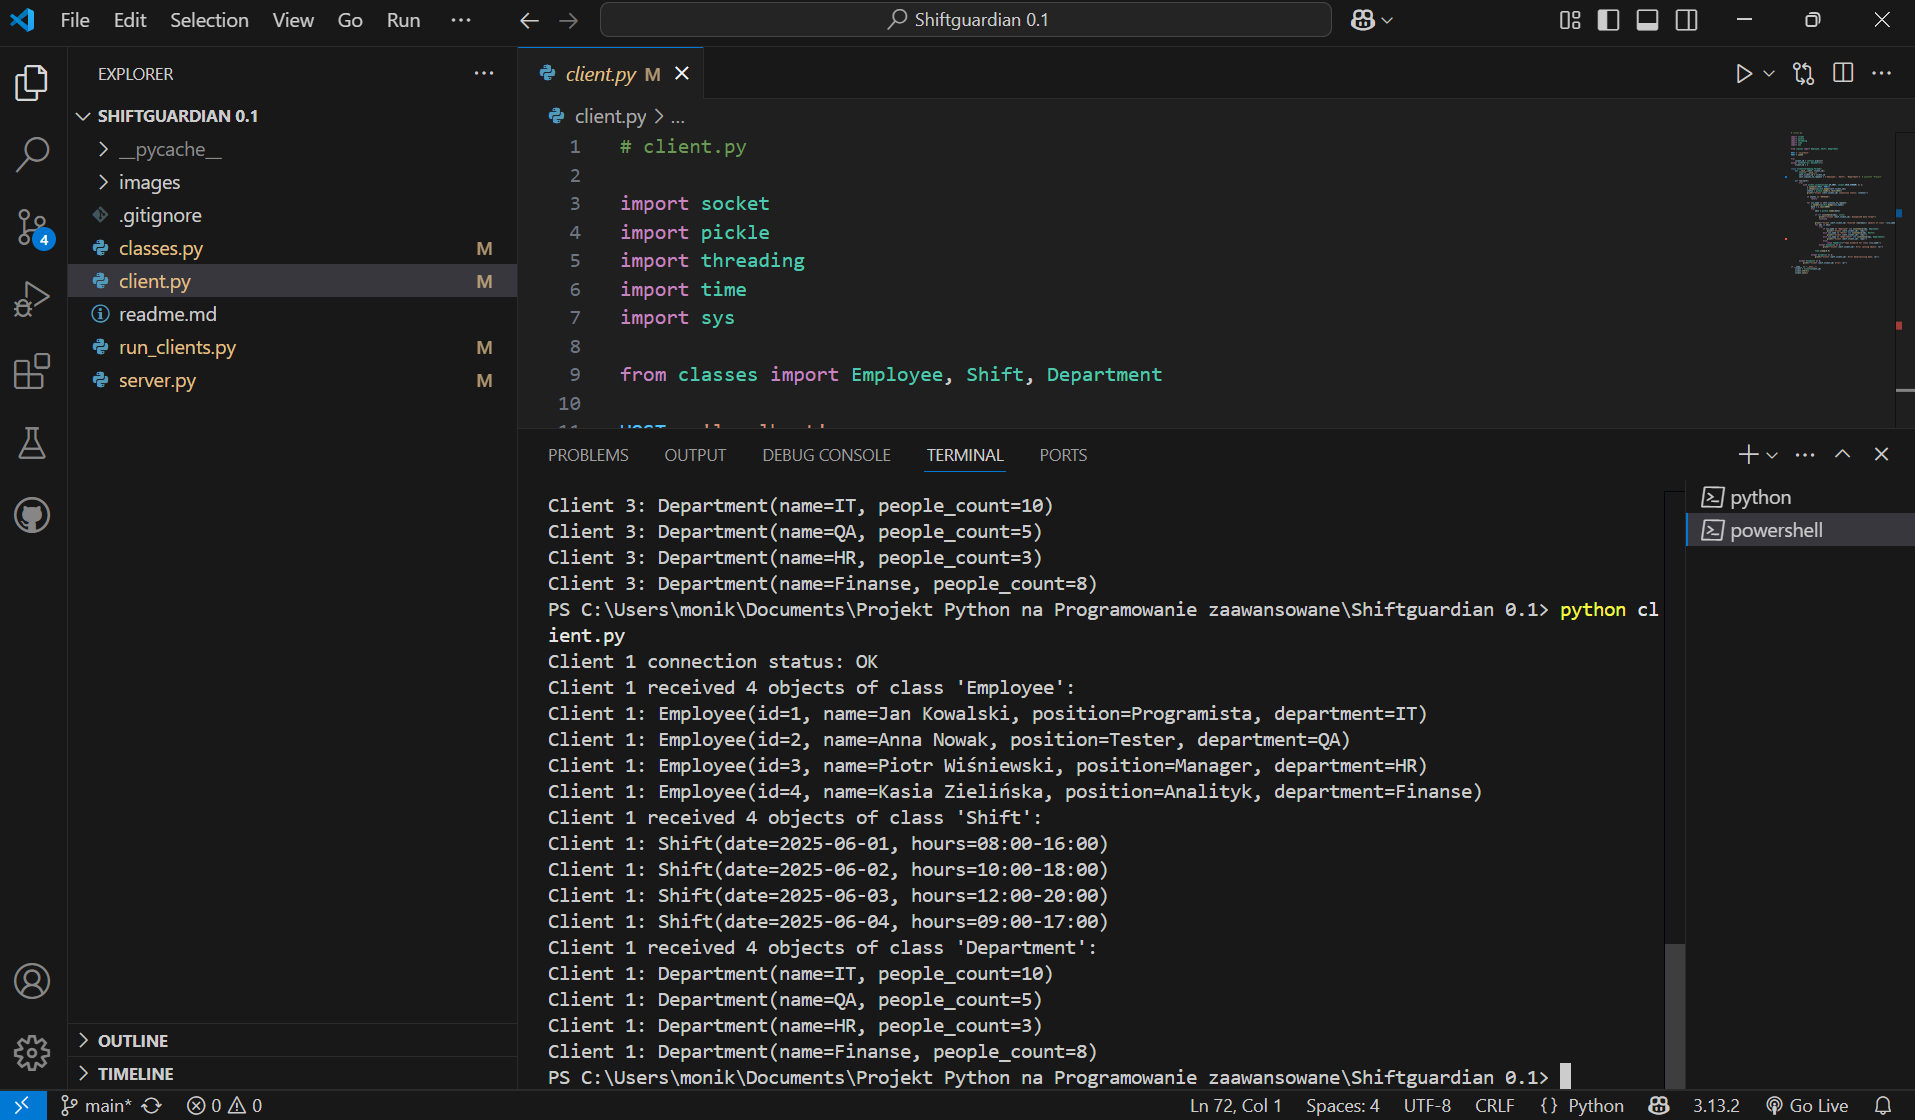
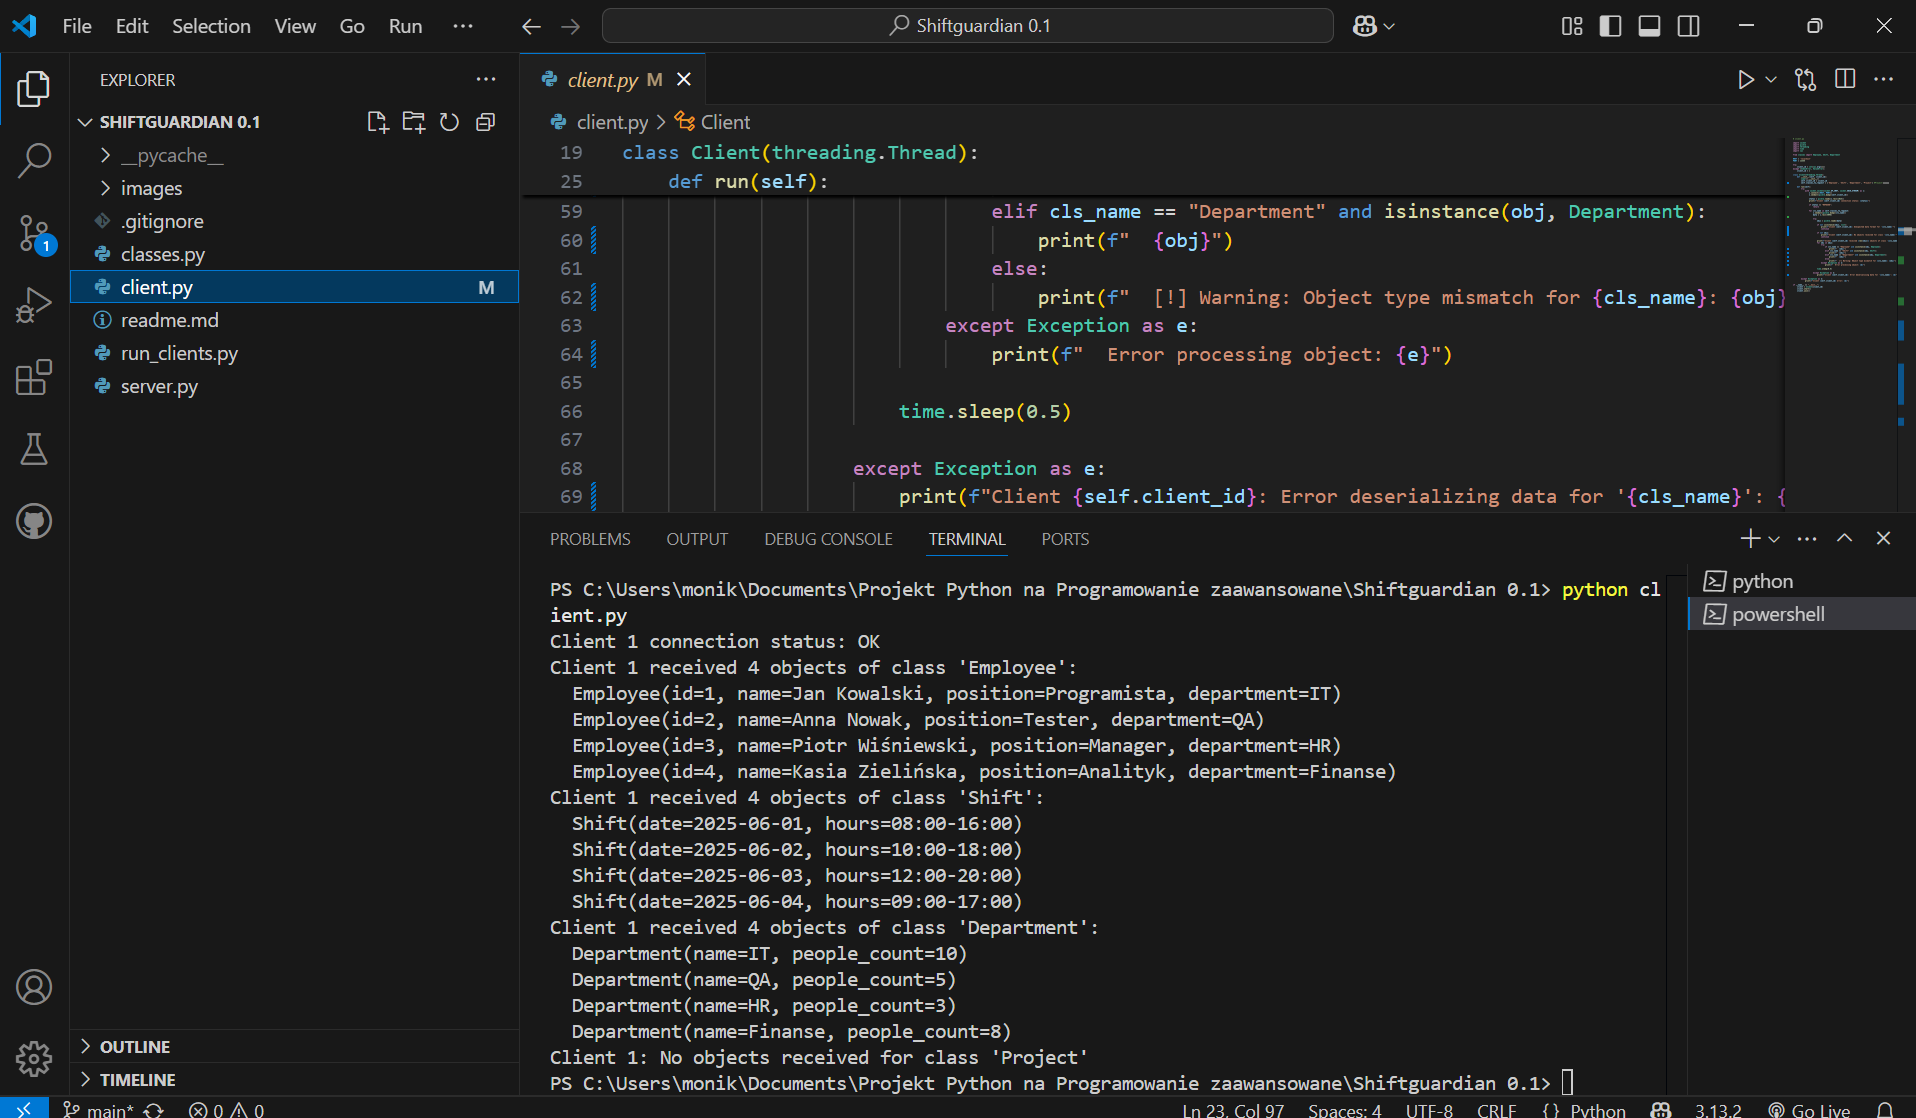
Aktualizacja client.py, dodano obsługę brakujących klas, poprawki logiki

diff --git a/client.py b/client.py
@@ -20,13 +20,14 @@ class Client(threading.Thread):
     def __init__(self, client_id):
         super().__init__()
         self.client_id = client_id
-        self.classes_to_request = ['Employee', 'Shift', 'Department']  # usunięto 'Project'
+        self.classes_to_request = ['Employee', 'Shift', 'Department', 'Project'] #Project-celowo
 
     def run(self):
         try:
             with socket.socket(socket.AF_INET, socket.SOCK_STREAM) as s:
                 s.connect((HOST, PORT))
                 s.sendall(pickle.dumps(self.client_id))
+
                 status = pickle.loads(s.recv(1024))
                 print(f"Client {self.client_id} connection status: {status}")
 
@@ -36,31 +37,36 @@ class Client(threading.Thread):
                 for cls_name in self.classes_to_request:
                     s.sendall(pickle.dumps(cls_name))
                     data = s.recv(4096)
+
                     try:
                         objs = pickle.loads(data)
 
                         if not isinstance(objs, list):
-                            print(f"Client {self.client_id}: Unexpected data format")
+                            print(f"Client {self.client_id}: Unexpected data format for '{cls_name}'")
+                            continue
+
+                        if not objs:
+                            print(f"Client {self.client_id}: No objects received for class '{cls_name}'")
                             continue
 
                         print(f"Client {self.client_id} received {len(objs)} objects of class '{cls_name}':")
                         for obj in objs:
                             try:
                                 if cls_name == "Employee" and isinstance(obj, Employee):
-                                    print(f"Client {self.client_id}: {obj}")
+                                    print(f"  {obj}")
                                 elif cls_name == "Shift" and isinstance(obj, Shift):
-                                    print(f"Client {self.client_id}: {obj}")
+                                    print(f"  {obj}")
                                 elif cls_name == "Department" and isinstance(obj, Department):
-                                    print(f"Client {self.client_id}: {obj}")
+                                    print(f"  {obj}")
                                 else:
-                                    raise TypeError(f"Type mismatch for class {cls_name}")
+                                    print(f"  [!] Warning: Object type mismatch for {cls_name}: {obj}")
                             except Exception as e:
-                                print(f"Client {self.client_id}: Error casting object: {e}")
+                                print(f"  Error processing object: {e}")
 
                         time.sleep(0.5)
 
                     except Exception as e:
-                        print(f"Client {self.client_id}: Error deserializing data: {e}")
+                        print(f"Client {self.client_id}: Error deserializing data for '{cls_name}': {e}")
 
         except Exception as e:
             print(f"Client {self.client_id} error: {e}")
